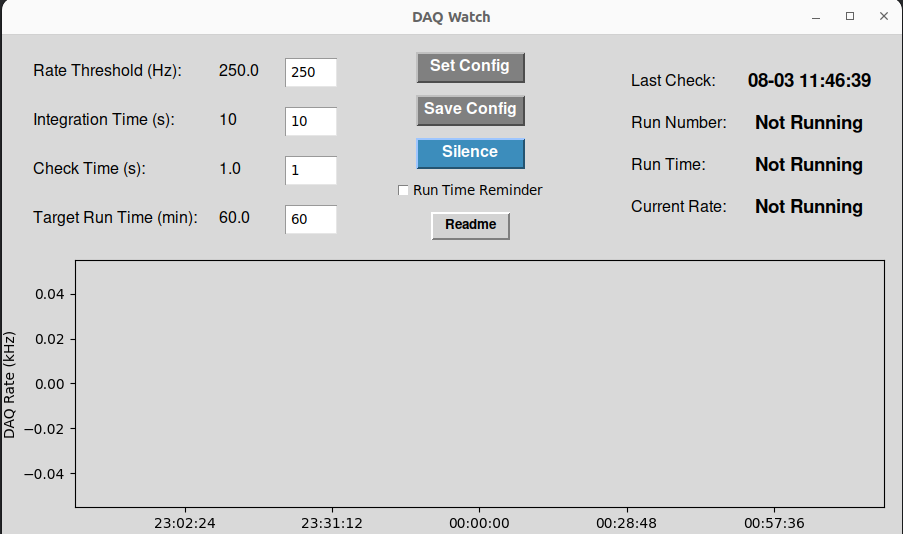
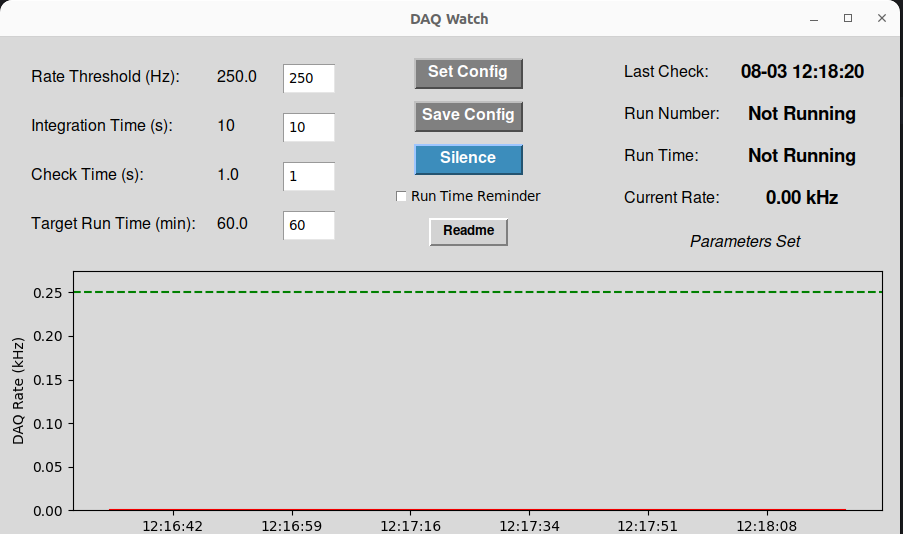
DAQWatchGUI.py added status text and updated screenshot

diff --git a/DAQWatchGUI.py b/DAQWatchGUI.py
@@ -146,30 +146,37 @@ class DAQWatchGUI:
         output_frame = ttk.Frame(form_button_status_frame)
         output_frame.pack(side=tk.RIGHT, fill=tk.X, padx=10, pady=10)
 
+        run_status_frame = ttk.Frame(output_frame)
+        run_status_frame.pack(side=tk.TOP, fill=tk.X, padx=5, pady=5)
         # Date and time display
-        self.date_time_label = ttk.Label(output_frame, text="Last Check:")
+        self.date_time_label = ttk.Label(run_status_frame, text="Last Check:")
         self.date_time_label.grid(column=0, row=0, padx=10, pady=10, sticky=tk.W)
-        self.date_time = ttk.Label(output_frame, text=strftime("%m-%d %H:%M:%S", localtime()),
+        self.date_time = ttk.Label(run_status_frame, text=strftime("%m-%d %H:%M:%S", localtime()),
                                       font=('Helvetica', 14, 'bold'))
         self.date_time.grid(column=1, row=0, padx=10, pady=10)
 
         # Run num display
-        self.run_num_label = ttk.Label(output_frame, text="Run Number:")
+        self.run_num_label = ttk.Label(run_status_frame, text="Run Number:")
         self.run_num_label.grid(column=0, row=1, padx=10, pady=10, sticky=tk.W)
-        self.run_num = ttk.Label(output_frame, text="N/A", font=('Helvetica', 14, 'bold'))
+        self.run_num = ttk.Label(run_status_frame, text="N/A", font=('Helvetica', 14, 'bold'))
         self.run_num.grid(column=1, row=1, padx=10, pady=10)
 
         # Run time display
-        self.run_time_label = ttk.Label(output_frame, text="Run Time:")
+        self.run_time_label = ttk.Label(run_status_frame, text="Run Time:")
         self.run_time_label.grid(column=0, row=2, padx=10, pady=10, sticky=tk.W)
-        self.run_time = ttk.Label(output_frame, text="N/A", font=('Helvetica', 14, 'bold'))
+        self.run_time = ttk.Label(run_status_frame, text="N/A", font=('Helvetica', 14, 'bold'))
         self.run_time.grid(column=1, row=2, padx=10, pady=10)
 
         # Rate display
-        self.rate_display_label = ttk.Label(output_frame, text="Current Rate:")
-        self.rate_display_label.grid(column=0, row=4, padx=10, pady=10, sticky=tk.W)
-        self.rate_display = ttk.Label(output_frame, text="N/A", font=('Helvetica', 14, 'bold'))
-        self.rate_display.grid(column=1, row=4, padx=10, pady=10)
+        self.rate_display_label = ttk.Label(run_status_frame, text="Current Rate:")
+        self.rate_display_label.grid(column=0, row=3, padx=10, pady=10, sticky=tk.W)
+        self.rate_display = ttk.Label(run_status_frame, text="N/A", font=('Helvetica', 14, 'bold'))
+        self.rate_display.grid(column=1, row=3, padx=10, pady=10)
+
+        # Status label
+        self.status_label = ttk.Label(output_frame, text="Status: Running", anchor='center',
+                                      font=('Helvetica', 12, 'italic'))
+        self.status_label.pack(side=tk.TOP, fill=tk.X, padx=5, pady=5)
 
         # Container frame for the graph
         graph_frame = ttk.Frame(self.root)
@@ -182,6 +189,7 @@ class DAQWatchGUI:
         self.time_data = []
         self.rate_data = []
         self.line, = self.ax.plot([], [], 'r-')
+        self.thresh_line = self.ax.axhline(self.rate_threshold / 1000, color='g', linestyle='--')
 
         # Format x-axis as time
         self.ax.xaxis.set_major_formatter(mdates.DateFormatter('%H:%M:%S'))
@@ -204,7 +212,8 @@ class DAQWatchGUI:
         }
         with open('config.json', 'w') as f:
             json.dump(config, f, indent=4)
-        print("Configuration saved.")
+        # print("Configuration saved.")
+        self.status_label.config(text="Configuration saved", foreground='black')
 
     def load_config(self):
         try:
@@ -215,8 +224,10 @@ class DAQWatchGUI:
                 self.check_time_entry.insert(0, config.get('check_time', ''))
                 self.target_run_time_entry.insert(0, config.get('target_run_time', ''))
                 self.run_time_reminder_var.set(config.get('run_time_reminder', 0))
+            self.status_label.config(text="Configuration loaded", foreground='black')
         except FileNotFoundError:
-            print("No configuration file found.")
+            # print("No configuration file found.")
+            self.status_label.config(text="No configuration file found.", foreground='black')
 
     def update_param_display(self):
         self.rate_value.config(text=self.watcher.rate_threshold)
@@ -249,22 +260,23 @@ class DAQWatchGUI:
         self.run_time_reminder = self.run_time_reminder_var.get()
         self.watcher.run_time_reminder = self.run_time_reminder
 
-        print(f"Parameters set: Rate Threshold={self.rate_threshold}, Integration Time={self.integration_time}, "
-              f"Check Time={self.check_time}, Target Run Time={self.target_run_time}, "
-              f"Run Time Reminder={self.run_time_reminder}")
+        # print(f"Parameters set: Rate Threshold={self.rate_threshold}, Integration Time={self.integration_time}, "
+        #       f"Check Time={self.check_time}, Target Run Time={self.target_run_time}, "
+        #       f"Run Time Reminder={self.run_time_reminder}")
 
         self.update_param_display()
+        self.status_label.config(text="Parameters Set", foreground='black')
 
     def silence_click(self):
-        print("Silence button pressed.")
         self.silence = not self.silence
         if self.silence:
             self.silence_button.config(bg='red', text='Unsilence')
         else:
             self.silence_button.config(bg='#3c8dbc', text='Silence')
         self.watcher.silence = self.silence
+        self.status_label.config(text="Alarm silenced" if self.silence else "Alarm Unsilenced")
 
-    def update_gui(self, run_num, rate, run_time):
+    def update_gui(self, run_num, rate, run_time, rate_alert, run_time_alert):
         refresh_time = datetime.now()
         refresh_time_str = refresh_time.strftime("%m-%d %H:%M:%S")
         self.date_time.config(text=refresh_time_str)
@@ -287,20 +299,28 @@ class DAQWatchGUI:
             self.rate_display.config(text=f"{rate / 1000:.2f} kHz")
             self.time_data.append(refresh_time)
             self.rate_data.append(rate / 1000)
-            y_top = max(self.rate_data) * 1.1
-        # self.refresh_label.config(text=f"Last Refresh: {refresh_time_str}")
+            y_top = max(max(self.rate_data), self.rate_threshold / 1000) * 1.1
 
         # Update graph data
-
         self.time_data = self.time_data[-self.graph_points:]  # Keep only the last n data points
         self.rate_data = self.rate_data[-self.graph_points:]
 
         self.line.set_data(self.time_data, self.rate_data)
+        self.thresh_line.set_ydata([self.rate_threshold / 1000, self.rate_threshold / 1000])
         if y_top is not None and y_top > 0:
             self.ax.set_ylim(0, y_top)
         self.ax.relim()
         self.ax.autoscale_view()
         self.canvas.draw()
+
+        rate_alert_message, run_time_alert_message = "Low Rate!", "Target Run Time Reached"
+        if rate_alert:
+            self.status_label.config(text=rate_alert_message, foreground='red')
+        elif run_time_alert:
+            self.status_label.config(text=run_time_alert_message, foreground='green')
+        else:  # If status_label text is either of the alert messages, change it back to ""
+            if self.status_label.cget('text') in [rate_alert_message, run_time_alert_message]:
+                self.status_label.config(text="", foreground='black')
 
     def show_readme(self):
         # Create the pop-up window
@@ -373,41 +393,4 @@ This application monitors the DAQ rate from the Prometheus database via a Grafan
         # Add a close button
         close_button = Button(readme_window, text="Close", command=readme_window.destroy)
         close_button.pack(pady=10)
-
-    # def show_readme(self):
-    #     # Create the pop-up window
-    #     readme_window = Toplevel(self.root)
-    #     readme_window.title("Readme")
-    #
-    #     # Add a label with the readme text
-    #     readme_text = """This application monitors the DAQ rate from the Prometheus database via a Grafana proxy API call. It polls the database every 'check_time' seconds and retrieves the current run number and DAQ rate, averaged over the past 'integration_time' seconds. If the rate falls below the specified threshold, an alarm will sound. This is particularly helpful for quickly alerting the shift crew to seb hangs as well as beam aborts.
-    #
-    #     Parameters:
-    #     - Rate Threshold (Hz): An audible alarm will sound if the rate falls below this value.
-    #     - Integration Time (s): The time period over which the rate is averaged. Increase to reduce false alarms.
-    #     - Check Time (s): The interval between each database poll.
-    #     - Target Run Time (min): The targeted max time for each run. Only used if 'Run Time Reminder' is enabled.
-    #     - Run Time Reminder: Option to alert when the target run time is reached to remind the user to start a new run.
-    #
-    #     Buttons:
-    #     - Set: Apply the input parameters.
-    #     - Save Config: Save the current configuration to a file. These values will be loaded on next start of the GUI.
-    #     - Silence/Unsilence: Mute or unmute the alarm.
-    #
-    #     Status Parameters and Plot:
-    #     - Last Check: Displays the timestamp of the last time the database was polled. Should be current time.
-    #     - Run Number: Shows the current run number.
-    #     - Run Time: Indicates the elapsed time for the current run. Only starts counting once the GUI has been opened.
-    #     - Current Rate: Displays the current DAQ rate.
-    #     - Rate Plot: A graph showing the DAQ rate over time, updated with each check.
-    #
-    #     Currently only working on Linux systems with the 'aplay' command available.
-    #     For questions or issues, please contact Dylan Neff (dneff@ucla.edu)"""
-    #
-    #     readme_label = Label(readme_window, text=readme_text, justify='left', wraplength=600)
-    #     readme_label.pack(padx=10, pady=10)
-    #
-    #     # Add a close button
-    #     close_button = Button(readme_window, text="Close", command=readme_window.destroy)
-    #     close_button.pack(pady=10)
 

diff --git a/DAQWatcher.py b/DAQWatcher.py
@@ -77,9 +77,10 @@ class DAQWatcher:
         while True:
             self.run_num = self.get_run_number()
             self.rate = self.get_rate()
+            rate_alert, run_time_alert = False, False
 
-            print(f'Run: {self.run_num}, Rate: {self.rate}, Silence: {self.silence}, run_time: {self.run_time}, '
-                  f'run_time_alert_counter: {run_time_alert_counter}')
+            # print(f'Run: {self.run_num}, Rate: {self.rate}, Silence: {self.silence}, run_time: {self.run_time}, '
+            #       f'run_time_alert_counter: {run_time_alert_counter}')
 
             if self.run_num is not None:
                 if self.run_num != self.last_run:
@@ -96,18 +97,20 @@ class DAQWatcher:
                 if self.rate is not None and self.run_num is not None:
                     if self.rate < self.rate_threshold and self.run_time > self.new_run_cushion:
                         print('Low rate')
+                        rate_alert = True
                         if not self.silence:
                             os.system(f'aplay {self.alert_sound_file}')
 
                 if self.target_run_time is not None and self.run_time > self.target_run_time * 60:
                     print('Target run time reached')
+                    run_time_alert = True
                     if not self.silence and run_time_alert_counter < 5:
                         os.system(f'aplay {self.run_end_sound_file}')
                         run_time_alert_counter += 1
 
             # Update the GUI with the latest data
             if self.update_callback:
-                self.update_callback(self.run_num, self.rate, self.run_time)
+                self.update_callback(self.run_num, self.rate, self.run_time, rate_alert, run_time_alert)
             sleep(self.check_time)  # Do this first so continues are safe
 
     @property
